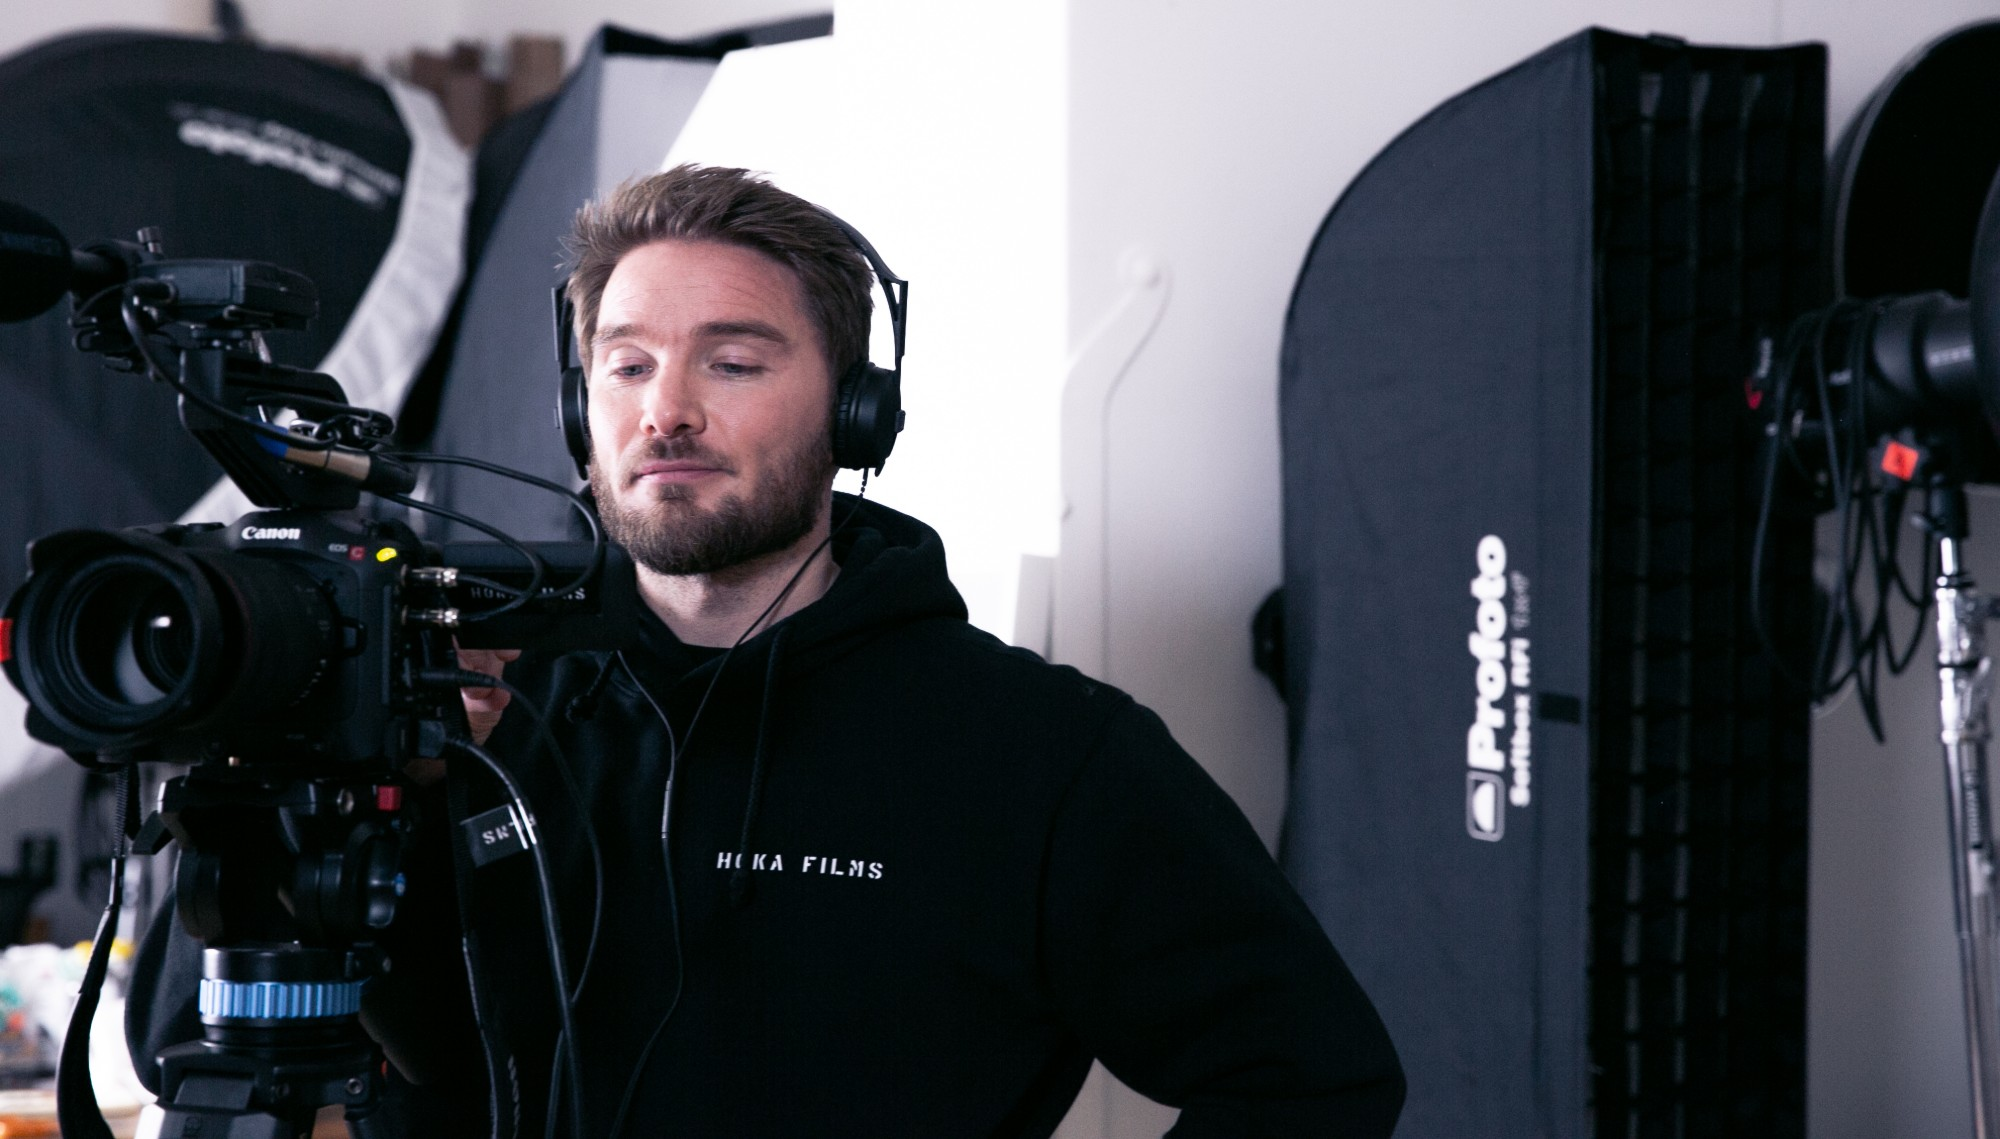
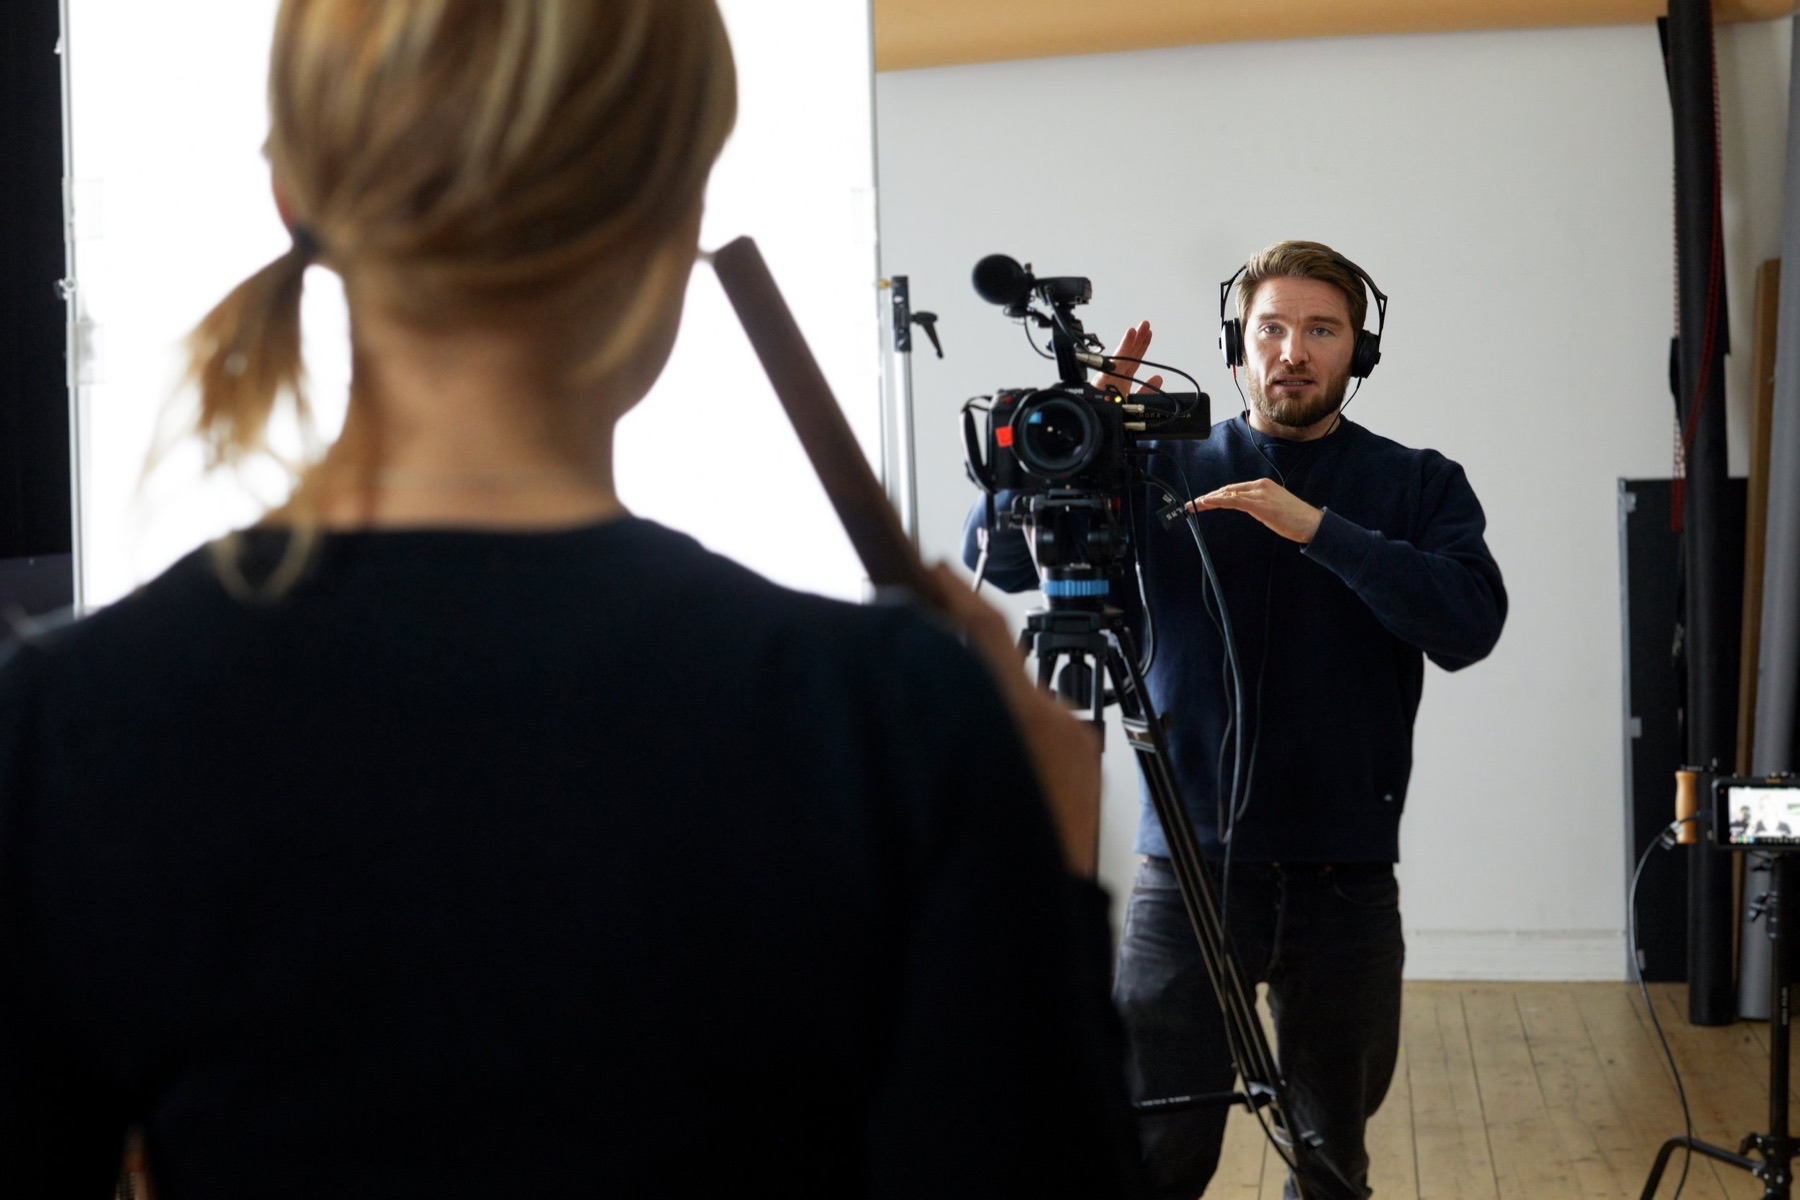
Keynote: vaihdetaan herokuvaksi studiokuva ohjaajasta

diff --git a/app/fi/keynotes/page.tsx b/app/fi/keynotes/page.tsx
@@ -43,7 +43,7 @@ export default function KeynotesFiPage() {
         style={{ position: 'relative', overflow: 'hidden', backgroundColor: '#111010', color: '#fff' }}
       >
         {/* eslint-disable-next-line @next/next/no-img-element */}
-        <img src="/keynote-hero.jpg" alt="" style={{ position: 'absolute', inset: 0, width: '100%', height: '100%', objectFit: 'cover', objectPosition: 'center top', filter: 'brightness(0.3) saturate(0.4)' }} />
+        <img src="/keynote-hero.jpg" alt="" style={{ position: 'absolute', inset: 0, width: '100%', height: '100%', objectFit: 'cover', objectPosition: 'center 40%', filter: 'brightness(0.3) saturate(0.4)' }} />
         <div style={{ position: 'absolute', inset: 0, background: 'linear-gradient(135deg, rgba(86,86,214,0.6) 0%, rgba(17,16,16,0.4) 100%)' }} />
         <div style={{ maxWidth: '1200px', margin: '0 auto', position: 'relative', zIndex: 1 }}>
           <p

diff --git a/app/keynotes/page.tsx b/app/keynotes/page.tsx
@@ -43,7 +43,7 @@ export default function KeynotesPage() {
         style={{ position: 'relative', overflow: 'hidden', backgroundColor: '#111010', color: '#fff' }}
       >
         {/* eslint-disable-next-line @next/next/no-img-element */}
-        <img src="/keynote-hero.jpg" alt="" style={{ position: 'absolute', inset: 0, width: '100%', height: '100%', objectFit: 'cover', objectPosition: 'center top', filter: 'brightness(0.3) saturate(0.4)' }} />
+        <img src="/keynote-hero.jpg" alt="" style={{ position: 'absolute', inset: 0, width: '100%', height: '100%', objectFit: 'cover', objectPosition: 'center 40%', filter: 'brightness(0.3) saturate(0.4)' }} />
         <div style={{ position: 'absolute', inset: 0, background: 'linear-gradient(135deg, rgba(86,86,214,0.6) 0%, rgba(17,16,16,0.4) 100%)' }} />
         <div style={{ maxWidth: '1200px', margin: '0 auto', position: 'relative', zIndex: 1 }}>
           <p
